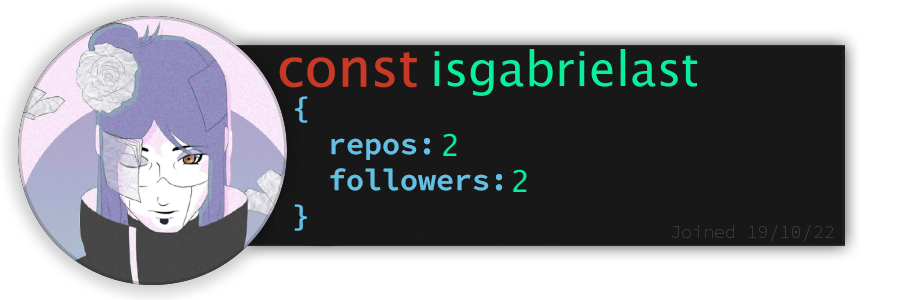
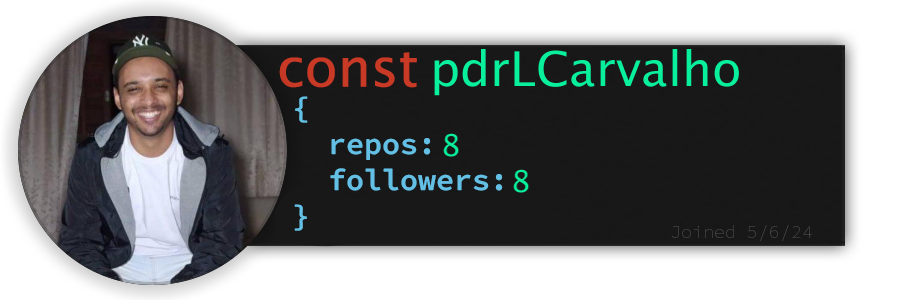
atualização para pegar o lastfollower em vez do randomfollower

diff --git a/src/utils/githubApi.js b/src/utils/githubApi.js
@@ -24,7 +24,7 @@ async function GithubRequest(url) {
   }
 }
 
-async function getRandomFollower(username) {
+async function getLastFollower(username) {
   const response = await fetch(`https://api.github.com/users/${username}/followers`);
   const followers = await response.json();
   console.log(`Fetching followers for user: ${username}`);
@@ -35,9 +35,7 @@ async function getRandomFollower(username) {
     return null;
   }
 
-  const randomIndex = Math.floor(Math.random() * followers.length);
-  const follower = followers[randomIndex];
-
+  const follower = followers[followers.length - 1];
 
   const followerDetailsResponse = await fetch(follower.url);
   const followerDetails = await followerDetailsResponse.json();
@@ -51,4 +49,4 @@ async function getRepositories(user) {
   return repositories;
 }
 
-module.exports = { getRandomFollower, getRepositories };
+module.exports = { getLastFollower, getRepositories };

diff --git a/README.md b/README.md
@@ -8,34 +8,34 @@
 * Gabryel Costa, 30 years
 * Full Stack programmer
 * Currently studying React, Ruby and Javascript
-* 1 Year, 5 Months and 20 Days since I started programming
+* 1 Year, 5 Months and 22 Days since I started programming
 
 ## **Skills wall:**
 
-<p align="left"><img src="https://img.shields.io/badge/markdown-404E4D?logo=markdown&style=for-the-badge&logoColor=F2F2F2"/>
-<img src="https://img.shields.io/badge/api%20rest-404E4D?logo=api%20rest&style=for-the-badge&logoColor=F2F2F2"/>
-<img src="https://img.shields.io/badge/sqlite-404E4D?logo=sqlite&style=for-the-badge&logoColor=F2F2F2"/>
-<img src="https://img.shields.io/badge/git-5BBDE7?logo=git&style=for-the-badge&logoColor=F2F2F2"/>
-<img src="https://img.shields.io/badge/html5-5BBDE7?logo=html5&style=for-the-badge&logoColor=F2F2F2"/>
+<p align="left"><img src="https://img.shields.io/badge/markdown-616D6C?logo=markdown&style=for-the-badge&logoColor=F2F2F2"/>
 <img src="https://img.shields.io/badge/mysql-5BBDE7?logo=mysql&style=for-the-badge&logoColor=F2F2F2"/>
-<img src="https://img.shields.io/badge/python-616D6C?logo=python&style=for-the-badge&logoColor=F2F2F2"/>
 <img src="https://img.shields.io/badge/node.js-5BBDE7?logo=node.js&style=for-the-badge&logoColor=F2F2F2"/>
-<img src="https://img.shields.io/badge/photoshop-404E4D?logo=adobe-photoshop&style=for-the-badge&logoColor=F2F2F2"/>
-<img src="https://img.shields.io/badge/express.js-616D6C?logo=express&style=for-the-badge&logoColor=F2F2F2"/>
-<img src="https://img.shields.io/badge/docker-5BBDE7?logo=docker&style=for-the-badge&logoColor=F2F2F2"/>
-<img src="https://img.shields.io/badge/javascript-5BBDE7?logo=javascript&style=for-the-badge&logoColor=F2F2F2"/>
-<img src="https://img.shields.io/badge/figma-616D6C?logo=figma&style=for-the-badge&logoColor=F2F2F2"/>
-<img src="https://img.shields.io/badge/styled%20components-404E4D?logo=styled%20components&style=for-the-badge&logoColor=F2F2F2"/>
-<img src="https://img.shields.io/badge/github-5BBDE7?logo=github&style=for-the-badge&logoColor=F2F2F2"/>
+<img src="https://img.shields.io/badge/ruby-404E4D?logo=ruby&style=for-the-badge&logoColor=F2F2F2"/>
 <img src="https://img.shields.io/badge/css3-5BBDE7?logo=css3&style=for-the-badge&logoColor=F2F2F2"/>
+<img src="https://img.shields.io/badge/styled%20components-404E4D?logo=styled%20components&style=for-the-badge&logoColor=F2F2F2"/>
+<img src="https://img.shields.io/badge/html5-5BBDE7?logo=html5&style=for-the-badge&logoColor=F2F2F2"/>
+<img src="https://img.shields.io/badge/photoshop-404E4D?logo=adobe-photoshop&style=for-the-badge&logoColor=F2F2F2"/>
 <img src="https://img.shields.io/badge/react-5BBDE7?logo=react&style=for-the-badge&logoColor=F2F2F2"/>
-<img src="https://img.shields.io/badge/visual%20studio%20code-616D6C?logo=visual%20studio%20code&style=for-the-badge&logoColor=F2F2F2"/>
-<img src="https://img.shields.io/badge/ruby-404E4D?logo=ruby&style=for-the-badge&logoColor=F2F2F2"/></p>
+<img src="https://img.shields.io/badge/javascript-5BBDE7?logo=javascript&style=for-the-badge&logoColor=F2F2F2"/>
+<img src="https://img.shields.io/badge/python-404E4D?logo=python&style=for-the-badge&logoColor=F2F2F2"/>
+<img src="https://img.shields.io/badge/github-5BBDE7?logo=github&style=for-the-badge&logoColor=F2F2F2"/>
+<img src="https://img.shields.io/badge/git-5BBDE7?logo=git&style=for-the-badge&logoColor=F2F2F2"/>
+<img src="https://img.shields.io/badge/docker-5BBDE7?logo=docker&style=for-the-badge&logoColor=F2F2F2"/>
+<img src="https://img.shields.io/badge/sqlite-404E4D?logo=sqlite&style=for-the-badge&logoColor=F2F2F2"/>
+<img src="https://img.shields.io/badge/api%20rest-616D6C?logo=api%20rest&style=for-the-badge&logoColor=F2F2F2"/>
+<img src="https://img.shields.io/badge/figma-616D6C?logo=figma&style=for-the-badge&logoColor=F2F2F2"/>
+<img src="https://img.shields.io/badge/visual%20studio%20code-404E4D?logo=visual%20studio%20code&style=for-the-badge&logoColor=F2F2F2"/>
+<img src="https://img.shields.io/badge/express.js-404E4D?logo=express&style=for-the-badge&logoColor=F2F2F2"/></p>
 
 ## **Recent projects:**
 
-<a href="https://github.com/gabryelcosta/desafio-ada-santander-calculadora"><img src="https://github-readme-stats.vercel.app/api/pin/?username=gabryelcosta&repo=desafio-ada-santander-calculadora&title_color=5BBDE7&text_color=F2F2F2&bg_color=616D6C&border_color=121111&icon_color=F2F2F2&border_radius=20" height="100"/></a>
 <a href="https://github.com/gabryelcosta/gabryelcosta"><img src="https://github-readme-stats.vercel.app/api/pin/?username=gabryelcosta&repo=gabryelcosta&title_color=5BBDE7&text_color=F2F2F2&bg_color=616D6C&border_color=121111&icon_color=F2F2F2&border_radius=20" height="100"/></a>
+<a href="https://github.com/gabryelcosta/desafio-ada-santander-calculadora"><img src="https://github-readme-stats.vercel.app/api/pin/?username=gabryelcosta&repo=desafio-ada-santander-calculadora&title_color=5BBDE7&text_color=F2F2F2&bg_color=616D6C&border_color=121111&icon_color=F2F2F2&border_radius=20" height="100"/></a>
 <a href="https://github.com/gabryelcosta/estudosts"><img src="https://github-readme-stats.vercel.app/api/pin/?username=gabryelcosta&repo=estudosts&title_color=5BBDE7&text_color=F2F2F2&bg_color=616D6C&border_color=121111&icon_color=F2F2F2&border_radius=20" height="100"/></a>
 <a href="https://github.com/gabryelcosta/modulo2-projeto-final-santander-coders"><img src="https://github-readme-stats.vercel.app/api/pin/?username=gabryelcosta&repo=modulo2-projeto-final-santander-coders&title_color=5BBDE7&text_color=F2F2F2&bg_color=616D6C&border_color=121111&icon_color=F2F2F2&border_radius=20" height="100"/></a>
 <a href="https://github.com/gabryelcosta/Santander-Coders-2024-landing-page"><img src="https://github-readme-stats.vercel.app/api/pin/?username=gabryelcosta&repo=Santander-Coders-2024-landing-page&title_color=5BBDE7&text_color=F2F2F2&bg_color=616D6C&border_color=121111&icon_color=F2F2F2&border_radius=20" height="100"/></a>
@@ -53,7 +53,7 @@
 
 *Showcases a random GitHub follower here everyday*
 
-<a href="https://github.com/Kwynto" alt="Constantine Zavezeon"><img style="height:150px;" src="./src/resources/images/randomFollower.png" alt="Follower of the day"/></a>
+<a href="https://github.com/pdrLCarvalho" alt="Pedro Carvalho"><img style="height:150px;" src="./src/resources/images/lastFollower.png" alt="Last follower"/></a>
 
 <hr>
 

diff --git a/README_TEMPLATE.md b/README_TEMPLATE.md
@@ -23,7 +23,7 @@
 
 *Showcases a random GitHub follower here everyday*
 
-%{randomFollower}
+%{lastFollower}
 
 <hr>
 
